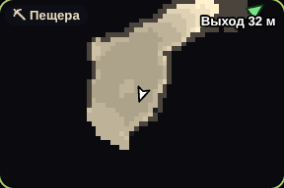
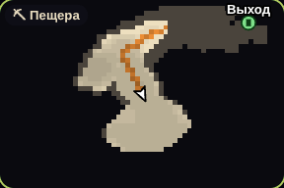
Карта пещеры: следы — тропинка там, где герой уже прошёл
Отдельная память шагов (те же битовые маски с пределом), сохраняется и
теряется при смерти вместе с картой; на карте — оранжево-коричневая
тропинка. Перерисовка по кусочку теперь точно держит бюджет 1,5 мс.

Claude-Session: https://claude.ai/code/session_01HMTFsQ71giJ4CqixW2Frdf

Changed region(s): [[0.2535, 0.0, 0.9859, 0.8245]]

diff --git a/src/game/CaveMap.js b/src/game/CaveMap.js
@@ -5,7 +5,8 @@
  *  - In a cave the minimap shows the cave from above, at the hero's level (Hud.drawMinimap → cave).
  *  - What the hero saw (in ~12 m and in the line of sight — never through the rock) is opened as they
  *    go: rays from the eyes along the floor, a few a frame (CaveExplorer.step); the rest is dark.
- *  - The memory: bit masks of 8 × 8 m tiles (one bit a column), with a limit (oldest tiles dropped);
+ *  - The memory: bit masks of 8 × 8 m tiles (one bit a column), with a limit (oldest tiles dropped):
+ *    what was seen, and where the hero walked (their trail on the map: «тут я ходил, тут не ходил»);
  *    the ways in/out where they were seen. Kept with the hero (WorldSave.playerSnapshot: each player
  *    their own). It is the hero's knowledge: death takes it with the rest (Legacy.js), «Give Me My
  *    Power» gives it back.
@@ -27,44 +28,99 @@ export const CAVE_MAP = {
 const T = CAVE_MAP.TILE;
 const tileKey = (tx, tz) => (tx + 0x8000) * 0x10000 + (tz + 0x8000);
 
-/** What the hero knows of the caves: the opened columns and the ways in. */
+/** A bit of a column in a map of 8 × 8 tiles (tile key -> Uint32Array(2)); `add`: set it (true if new). */
+function bitAt(tiles, ix, iz, add) {
+    const tx = Math.floor(ix / T), tz = Math.floor(iz / T);
+    if (tx < -0x8000 || tx >= 0x8000 || tz < -0x8000 || tz >= 0x8000) return false;
+    const k = tileKey(tx, tz);
+    let m = tiles.get(k);
+    if (!m) {
+        if (!add) return false;
+        m = new Uint32Array(2);
+        tiles.set(k, m);
+        if (tiles.size > CAVE_MAP.MAX_TILES) tiles.delete(tiles.keys().next().value); // (the oldest tile)
+    }
+    const b = (iz - tz * T) * T + (ix - tx * T);
+    const bit = 1 << (b & 31);
+    if (m[b >> 5] & bit) return !add;
+    if (!add) return false;
+    m[b >> 5] |= bit;
+    // (a tile walked in again moves to the end: the oldest — the long forgotten — go first)
+    if (tiles.size > 1) { tiles.delete(k); tiles.set(k, m); }
+    return true;
+}
+
+function packTiles(tiles) {
+    const buf = new DataView(new ArrayBuffer(tiles.size * 12));
+    let o = 0;
+    for (const [k, m] of tiles) {
+        buf.setInt16(o, Math.floor(k / 0x10000) - 0x8000, true);
+        buf.setInt16(o + 2, (k % 0x10000) - 0x8000, true);
+        buf.setUint32(o + 4, m[0], true);
+        buf.setUint32(o + 8, m[1], true);
+        o += 12;
+    }
+    return toBase64(new Uint8Array(buf.buffer));
+}
+
+function unpackTiles(tiles, str) {
+    if (typeof str !== 'string' || !str) return;
+    let bytes;
+    try { bytes = fromBase64(str); } catch { return; }
+    const v = new DataView(bytes.buffer, bytes.byteOffset, bytes.byteLength);
+    const n = Math.min(CAVE_MAP.MAX_TILES, Math.floor(bytes.byteLength / 12));
+    for (let i = 0; i < n; i++) {
+        const o = i * 12, k = tileKey(v.getInt16(o, true), v.getInt16(o + 2, true));
+        let m = tiles.get(k);
+        if (!m) {
+            m = new Uint32Array(2);
+            tiles.set(k, m);
+            if (tiles.size > CAVE_MAP.MAX_TILES) tiles.delete(tiles.keys().next().value);
+        }
+        m[0] |= v.getUint32(o + 4, true);
+        m[1] |= v.getUint32(o + 8, true);
+    }
+}
+
+/** What the hero knows of the caves: the opened columns, where they walked (their trail), the ways in. */
 export class CaveMemory {
     constructor() {
-        this.tiles = new Map(); // tile key -> Uint32Array(2): bit (z % 8) * 8 + (x % 8)
+        this.tiles = new Map(); // tile key -> Uint32Array(2): bit (z % 8) * 8 + (x % 8) — seen
+        this.steps = new Map(); // … walked on (the trail on the cave map: «тут я ходил»)
         this.ways = []; // [{x, z}] ways in/out seen
-        this.fresh = []; // [x, z, x, z…] opened since the map took them (Hud)
+        this.fresh = []; // [x, z, x, z…] opened / walked since the map took them (Hud)
         this.redraw = false; // too many at once / restored / wiped: draw the cave map anew
         this.version = 0;
     }
 
     /** Has the hero seen this column? */
     has(x, z) {
-        const ix = Math.floor(x), iz = Math.floor(z);
-        const m = this.tiles.get(tileKey(Math.floor(ix / T), Math.floor(iz / T)));
-        if (!m) return false;
-        const b = (((iz % T) + T) % T) * T + (((ix % T) + T) % T);
-        return (m[b >> 5] & (1 << (b & 31))) !== 0;
+        return bitAt(this.tiles, Math.floor(x), Math.floor(z), false);
+    }
+
+    /** Has the hero walked here? */
+    walked(x, z) {
+        return bitAt(this.steps, Math.floor(x), Math.floor(z), false);
+    }
+
+    _fresh(ix, iz) {
+        if (this.fresh.length < CAVE_MAP.MAX_FRESH * 2) this.fresh.push(ix, iz); else this.redraw = true;
+        this.version++;
     }
 
     /** Open a column; true if it is new. */
     open(ix, iz) {
-        const tx = Math.floor(ix / T), tz = Math.floor(iz / T);
-        if (tx < -0x8000 || tx >= 0x8000 || tz < -0x8000 || tz >= 0x8000) return false;
-        const k = tileKey(tx, tz);
-        let m = this.tiles.get(k);
-        if (!m) {
-            m = new Uint32Array(2);
-            this.tiles.set(k, m);
-            if (this.tiles.size > CAVE_MAP.MAX_TILES) this.tiles.delete(this.tiles.keys().next().value); // (the oldest tile)
-        }
-        const b = (iz - tz * T) * T + (ix - tx * T);
-        const bit = 1 << (b & 31);
-        if (m[b >> 5] & bit) return false;
-        m[b >> 5] |= bit;
-        // (a tile walked in again moves to the end: the oldest — the long forgotten — go first)
-        if (this.tiles.size > 1) { this.tiles.delete(k); this.tiles.set(k, m); }
-        if (this.fresh.length < CAVE_MAP.MAX_FRESH * 2) this.fresh.push(ix, iz); else this.redraw = true;
-        this.version++;
+        if (!bitAt(this.tiles, ix, iz, true)) return false;
+        this._fresh(ix, iz);
+        return true;
+    }
+
+    /** The hero's feet here (x, z: the world point): the trail. */
+    walk(x, z) {
+        const ix = Math.floor(x + 0.5), iz = Math.floor(z + 0.5);
+        if (!bitAt(this.steps, ix, iz, true)) return false;
+        this.open(ix, iz);
+        this._fresh(ix, iz);
         return true;
     }
 
@@ -77,54 +133,29 @@ export class CaveMemory {
     }
 
     get empty() {
-        return !this.tiles.size && !this.ways.length;
+        return !this.tiles.size && !this.steps.size && !this.ways.length;
     }
 
     clear() {
         this.tiles.clear();
+        this.steps.clear();
         this.ways.length = 0;
         this.fresh.length = 0;
         this.redraw = true;
         this.version++;
     }
 
-    /** Compact: {t: base64 of [int16 tx, int16 tz, uint32 lo, uint32 hi]…, w: [[x, z]…]} or null. */
+    /** Compact: {t, s: base64 of [int16 tx, int16 tz, uint32 lo, uint32 hi]…, w: [[x, z]…]} or null. */
     snapshot() {
         if (this.empty) return null;
-        const buf = new DataView(new ArrayBuffer(this.tiles.size * 12));
-        let o = 0;
-        for (const [k, m] of this.tiles) {
-            buf.setInt16(o, Math.floor(k / 0x10000) - 0x8000, true);
-            buf.setInt16(o + 2, (k % 0x10000) - 0x8000, true);
-            buf.setUint32(o + 4, m[0], true);
-            buf.setUint32(o + 8, m[1], true);
-            o += 12;
-        }
-        return { t: toBase64(new Uint8Array(buf.buffer)), w: this.ways.map((w) => [w.x, w.z]) };
+        return { t: packTiles(this.tiles), s: packTiles(this.steps), w: this.ways.map((w) => [w.x, w.z]) };
     }
 
     /** Add a saved memory to this one (restore, or a legacy taken back). */
     merge(s) {
         if (!s || typeof s !== 'object') return;
-        if (typeof s.t === 'string' && s.t) {
-            let bytes;
-            try { bytes = fromBase64(s.t); } catch { bytes = null; }
-            if (bytes) {
-                const v = new DataView(bytes.buffer, bytes.byteOffset, bytes.byteLength);
-                const n = Math.min(CAVE_MAP.MAX_TILES, Math.floor(bytes.byteLength / 12));
-                for (let i = 0; i < n; i++) {
-                    const o = i * 12, k = tileKey(v.getInt16(o, true), v.getInt16(o + 2, true));
-                    let m = this.tiles.get(k);
-                    if (!m) {
-                        m = new Uint32Array(2);
-                        this.tiles.set(k, m);
-                        if (this.tiles.size > CAVE_MAP.MAX_TILES) this.tiles.delete(this.tiles.keys().next().value);
-                    }
-                    m[0] |= v.getUint32(o + 4, true);
-                    m[1] |= v.getUint32(o + 8, true);
-                }
-            }
-        }
+        unpackTiles(this.tiles, s.t);
+        unpackTiles(this.steps, s.s);
         if (Array.isArray(s.w)) for (const w of s.w) if (Array.isArray(w) && Number.isFinite(w[0]) && Number.isFinite(w[1])) this.addWay(w[0], w[1]);
         this.redraw = true;
         this.version++;

diff --git a/src/ui/Hud.js b/src/ui/Hud.js
@@ -567,7 +567,7 @@ export class Hud {
 
     /**
      * The cave map's picture round (cx, cz) at the hero's level L: what they have seen of the cave —
-     * the floor light (lighter higher, darker lower), the rock dark, the rest dark as night (not seen).
+     * the floor light (lighter higher, darker lower), their trail brown, the rock dark, the rest dark as night (not seen).
      * Only what changed is worked out: newly seen columns, the strip that came in when the window moved;
      * a whole new picture (another level, a dug wall) a little a frame (≤ 1.5 ms), from the middle out.
      */
@@ -616,8 +616,10 @@ export class Hud {
             else if (k === PIT) { r = 26; g = 30; b = 40; }
             else if (d.get(wx, cave.L + k, wz) === BLOCK.WATER) { r = 58; g = 111; b = 160; }
             else {
-                const sh = Math.max(0.45, Math.min(1.25, 1 + k * 0.08)); // (higher: lighter; down a slope: darker)
+                const sh = Math.max(0.68, Math.min(1.18, 1 + k * 0.05)); // (higher: lighter; down a slope: darker)
                 r = 206 * sh; g = 194 * sh; b = 166 * sh;
+                // where I walked: footprints — a warm orange-brown trail, stippled like steps («тут я ходил»)
+                if (mem.walked(wx, wz)) { const f = (((wx + wz) & 1) ? 0.86 : 1) * Math.max(0.85, sh); r = 214 * f; g = 128 * f; b = 48 * f; }
             }
             px[i] = r; px[i + 1] = g; px[i + 2] = b; px[i + 3] = 255;
         };
@@ -632,11 +634,11 @@ export class Hud {
         // the columns waiting (a whole new picture, a strip): a little a frame
         if (ci.todo) {
             const t0 = performance.now();
-            let left = false;
+            let left = false, n = 0;
             for (let i = 0; i < N * N; i++) {
                 if (!redo[i]) continue;
                 pixel(i % N, Math.floor(i / N)); redo[i] = 0; dirty = true;
-                if ((i & 63) === 0 && performance.now() - t0 > 1.5) { left = true; break; }
+                if ((++n & 31) === 0 && performance.now() - t0 > 1.5) { left = true; break; }
             }
             ci.todo = left ? 1 : 0;
         }

diff --git a/src/ui/Codex.js b/src/ui/Codex.js
@@ -365,6 +365,7 @@ export const MECHANICS = [
     { icon: '⛏', title: 'Карта пещеры', lead: 'Когда вы заходите в пещеру, миникарта сама становится картой пещеры — крупнее, вид сверху на вашем уровне. Выйдете наружу — снова обычная карта.', points: [
         'На карте только то, что вы уже видели: проход рядом с вами (метров на 12, сквозь скалу не видно) открывается по мере того, как вы идёте. Неисследованное — темнота.',
         'Светлое — пол, по которому можно пройти: выше — светлее, ниже по склону — темнее. Тёмно-серое — каменные стены, синее — вода, почти чёрное — обрыв.',
+        'Где вы уже прошли, на карте остаётся коричневая тропинка из следов — сразу видно: тут я ходил, а тут ещё нет.',
         'Зелёный значок «Выход» — где вы заходили в пещеру или выходили из неё. Если он за краем карты, стрелка на краю показывает, куда идти, и сколько метров.',
         'Отмечены сундуки (открытые — серые), голубые кристаллы маны и зомби, которых вы видели, и другие игроки.',
         'Карта запоминается и сохраняется вместе с героем; у каждого игрока своя. После смерти она забывается, но возвращается вместе со всем остальным заклинанием «Give Me My Power».',

diff --git a/tests/unit/cave-map.test.js b/tests/unit/cave-map.test.js
@@ -10,12 +10,14 @@ test('cave memory: saved and restored the same, with a limit', () => {
     const m = new CaveMemory();
     for (let i = -30; i < 30; i++) m.open(i * 3, -i * 5);
     m.addWay(10, 20); m.addWay(12, 21); // (the same way: once)
+    m.walk(40.2, -7.8);
     const s = m.snapshot();
     const r = new CaveMemory();
     r.restore(s);
     for (let i = -30; i < 30; i++) assert.ok(r.has(i * 3, -i * 5));
     assert.ok(!r.has(1, 1));
     assert.equal(r.ways.length, 1);
+    assert.ok(r.walked(40, -8) && r.has(40, -8) && !r.walked(41, -8), 'the trail kept');
     const big = new CaveMemory();
     for (let i = 0; i < CAVE_MAP.MAX_TILES + 50; i++) big.open(i * 8, 0);
     assert.equal(big.tiles.size, CAVE_MAP.MAX_TILES);

diff --git a/src/game/Game.js b/src/game/Game.js
@@ -1082,7 +1082,10 @@ export class Game {
         else if (was && this._caveHold <= -1) this._inCave = false;
         if (this._inCave !== was && this._caveOut) this.caveMap.addWay(this._caveOut.x, this._caveOut.z); // (the way in: the last place outside)
         if (!cave) (this._caveOut || (this._caveOut = { x: 0, z: 0 })).x = p.x, this._caveOut.z = p.z;
-        if (this._inCave && this.playerHP > 0) this.caveEyes.step(this.terrain.data, p.x, p.y, p.z);
+        if (this._inCave && this.playerHP > 0) {
+            this.caveEyes.step(this.terrain.data, p.x, p.y, p.z);
+            if (!this.flight?.active) this.caveMap.walk(p.x, p.z); // (the trail on the cave map: where I walked)
+        }
     }
 
     /**
